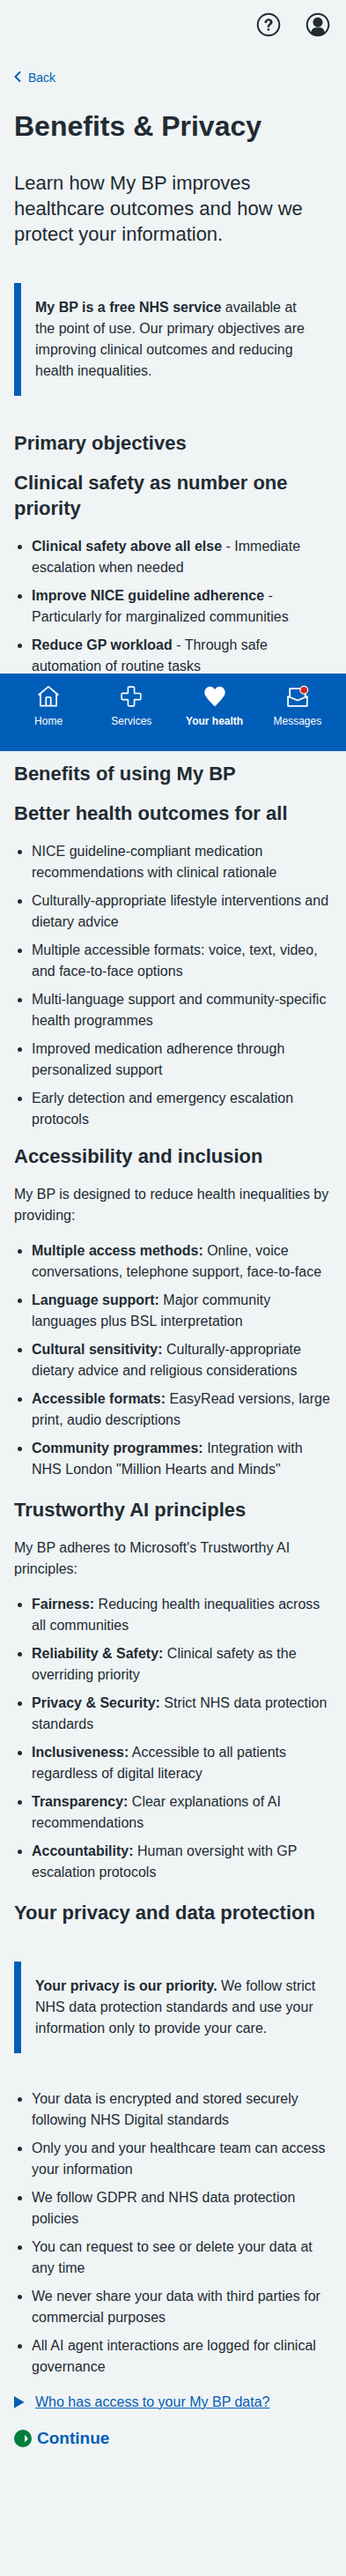
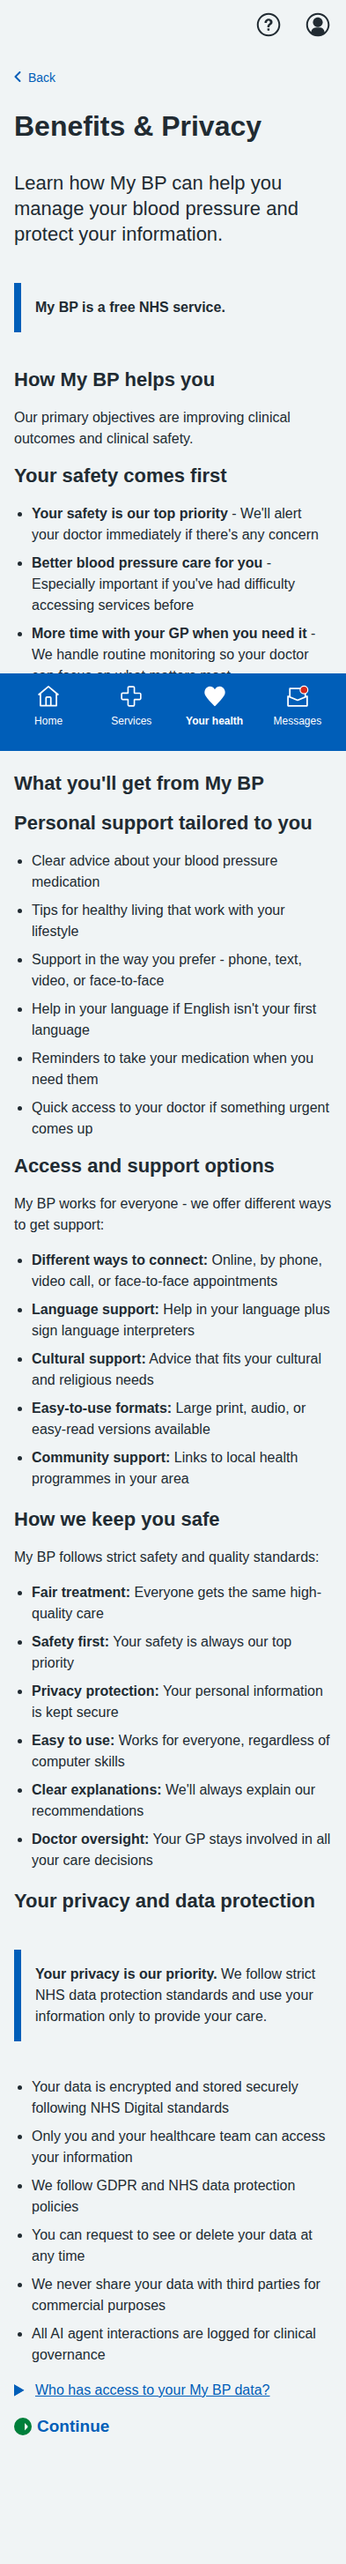
Update onboarding pages with patient-focused language based on review feedback

Changed region(s): [[0.0305, 0.0309, 0.9466, 0.9591], [0.916, 0.7116, 0.9466, 0.7425]]

diff --git a/prototype/v1/app/views/pages/mybp/onboarding/benefits.html b/prototype/v1/app/views/pages/mybp/onboarding/benefits.html
@@ -19,7 +19,7 @@
       </h1>
 
       <p class="nhsuk-lede-text">
-        Learn how My BP improves healthcare outcomes and how we protect your information.
+        Learn how My BP can help you manage your blood pressure and protect your information.
       </p>
 
       <div class="nhsuk-inset-text">
@@ -28,6 +28,8 @@
       </div>
 
       <h2 class="nhsuk-heading-m">How My BP helps you</h2>
+
+      <p>Our primary objectives are improving clinical outcomes and clinical safety.</p>
 
       <div class="nhsuk-care-card nhsuk-care-card--urgent">
         <div class="nhsuk-care-card__heading-container">
@@ -54,46 +56,46 @@
         <div class="nhsuk-care-card__heading-container">
           <h3 class="nhsuk-care-card__heading">
             <span role="text">
-              <span class="nhsuk-u-visually-hidden">Information: </span>Personalized support for better health
+              <span class="nhsuk-u-visually-hidden">Information: </span>Personal support tailored to you
             </span>
           </h3>
           <span class="nhsuk-care-card__arrow" aria-hidden="true"></span>
         </div>
         <div class="nhsuk-care-card__content">
           <ul class="nhsuk-list nhsuk-list--bullet">
-            <li>Medication advice that's right for you, with clear explanations of why</li>
-            <li>Lifestyle tips that fit your culture, diet, and daily routine</li>
-            <li>Support in the way that works best for you - by phone, video, text, or in person</li>
-            <li>Help in your preferred language with community-specific advice</li>
-            <li>Personalized reminders to help you stay on track with your medications</li>
-            <li>Quick help when something urgent comes up, with fast referral to your doctor</li>
+            <li>Clear advice about your blood pressure medication</li>
+            <li>Tips for healthy living that work with your lifestyle</li>
+            <li>Support in the way you prefer - phone, text, video, or face-to-face</li>
+            <li>Help in your language if English isn't your first language</li>
+            <li>Reminders to take your medication when you need them</li>
+            <li>Quick access to your doctor if something urgent comes up</li>
           </ul>
         </div>
       </div>
 
-      <h2 class="nhsuk-heading-m">Accessibility and inclusion</h2>
+      <h2 class="nhsuk-heading-m">Access and support options</h2>
 
-      <p>My BP is designed to reduce health inequalities by providing:</p>
+      <p>My BP works for everyone - we offer different ways to get support:</p>
 
       <ul class="nhsuk-list nhsuk-list--bullet">
-        <li><strong>Multiple access methods:</strong> Online, voice conversations, telephone support, face-to-face</li>
-        <li><strong>Language support:</strong> Major community languages plus BSL interpretation</li>
-        <li><strong>Cultural sensitivity:</strong> Culturally-appropriate dietary advice and religious considerations</li>
-        <li><strong>Accessible formats:</strong> EasyRead versions, large print, audio descriptions</li>
-        <li><strong>Community programmes:</strong> Integration with NHS London "Million Hearts and Minds"</li>
+        <li><strong>Different ways to connect:</strong> Online, by phone, video call, or face-to-face appointments</li>
+        <li><strong>Language support:</strong> Help in your language plus sign language interpreters</li>
+        <li><strong>Cultural support:</strong> Advice that fits your cultural and religious needs</li>
+        <li><strong>Easy-to-use formats:</strong> Large print, audio, or easy-read versions available</li>
+        <li><strong>Community support:</strong> Links to local health programmes in your area</li>
       </ul>
 
-      <h2 class="nhsuk-heading-m">Trustworthy AI principles</h2>
+      <h2 class="nhsuk-heading-m">How we keep you safe</h2>
 
-      <p>My BP adheres to Microsoft's Trustworthy AI principles:</p>
+      <p>My BP follows strict safety and quality standards:</p>
 
       <ul class="nhsuk-list nhsuk-list--bullet">
-        <li><strong>Fairness:</strong> Reducing health inequalities across all communities</li>
-        <li><strong>Reliability & Safety:</strong> Clinical safety as the overriding priority</li>
-        <li><strong>Privacy & Security:</strong> Strict NHS data protection standards</li>
-        <li><strong>Inclusiveness:</strong> Accessible to all patients regardless of digital literacy</li>
-        <li><strong>Transparency:</strong> Clear explanations of AI recommendations</li>
-        <li><strong>Accountability:</strong> Human oversight with GP escalation protocols</li>
+        <li><strong>Fair treatment:</strong> Everyone gets the same high-quality care</li>
+        <li><strong>Safety first:</strong> Your safety is always our top priority</li>
+        <li><strong>Privacy protection:</strong> Your personal information is kept secure</li>
+        <li><strong>Easy to use:</strong> Works for everyone, regardless of computer skills</li>
+        <li><strong>Clear explanations:</strong> We'll always explain our recommendations</li>
+        <li><strong>Doctor oversight:</strong> Your GP stays involved in all your care decisions</li>
       </ul>
 
       <h2 class="nhsuk-heading-m">Your privacy and data protection</h2>

diff --git a/prototype/v1/app/views/pages/mybp/index.html b/prototype/v1/app/views/pages/mybp/index.html
@@ -43,7 +43,7 @@
         <div class="nhsuk-care-card__content">
           <p>Complete the onboarding process to use My BP. This covers:</p>
           <ul class="nhsuk-list nhsuk-list--bullet">
-            <li>Benefits and privacy information</li>
+            <li>Service information and privacy</li>
             <li>Data usage statement</li>
             <li>Your consent</li>
           </ul>
